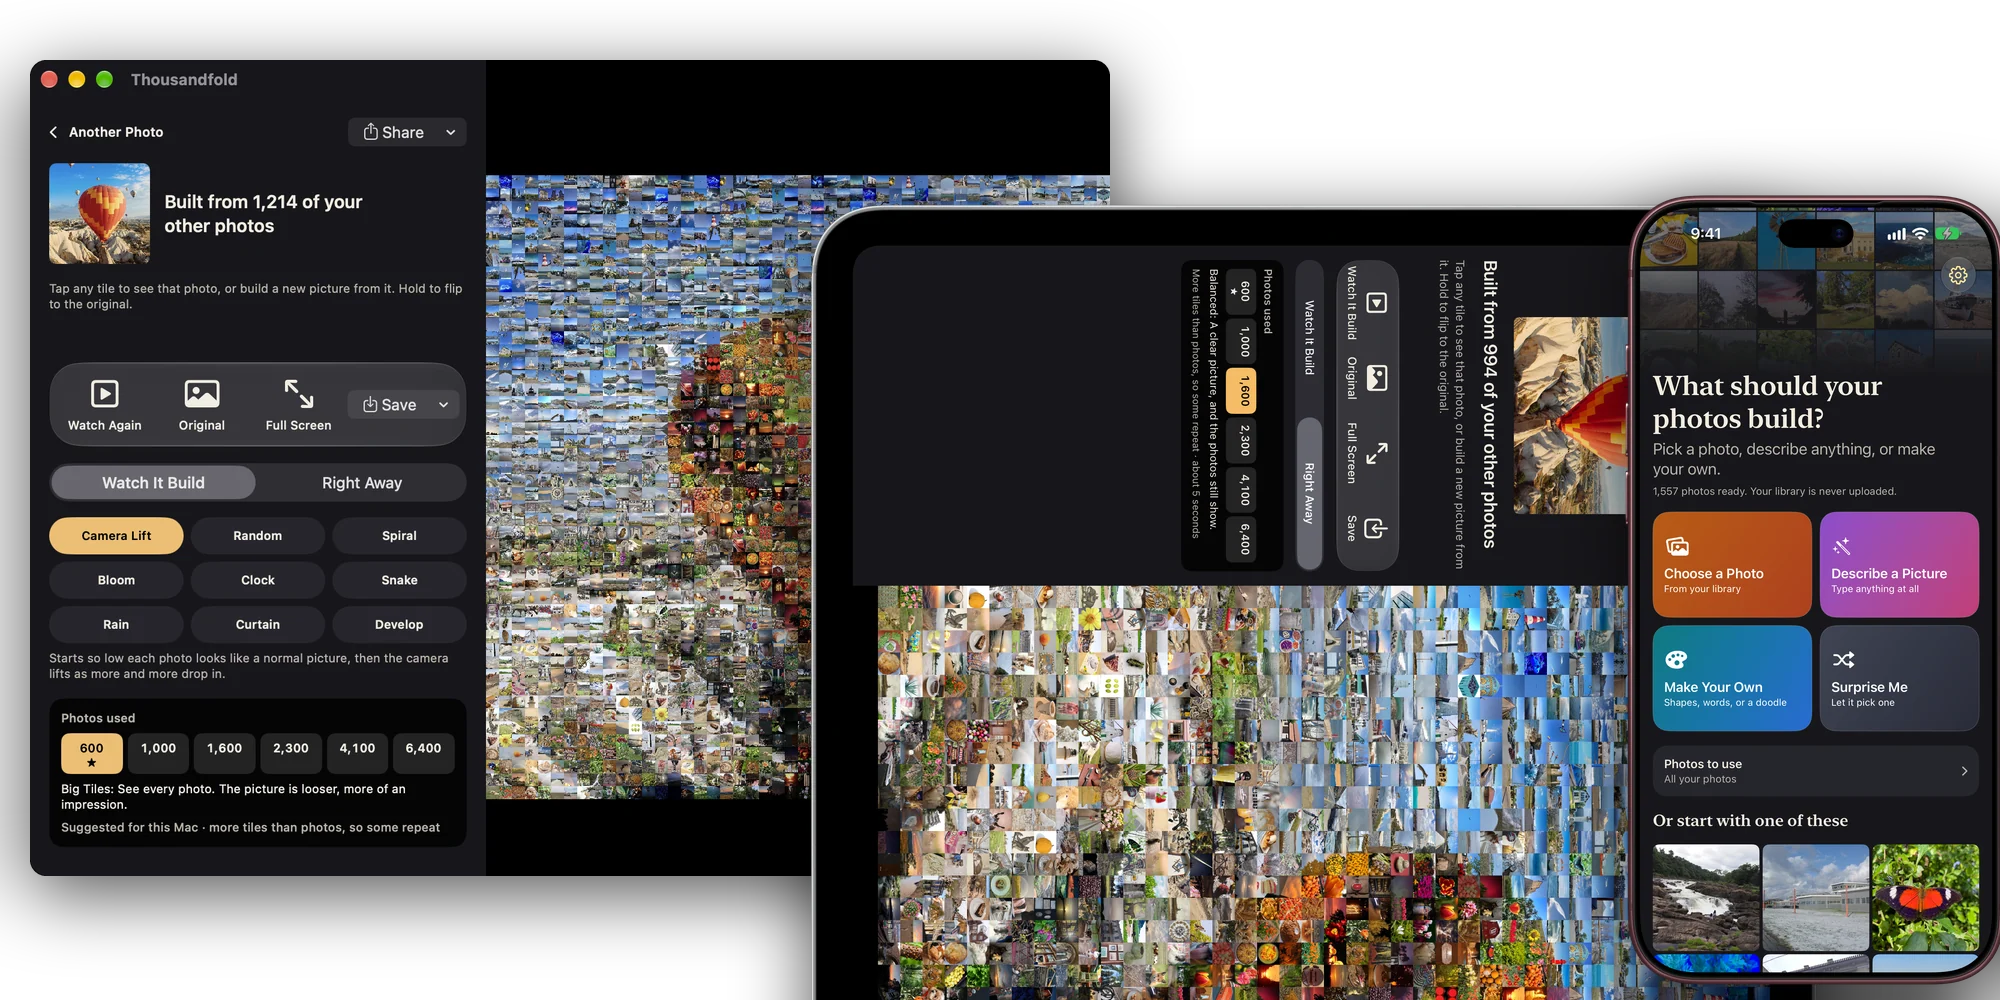
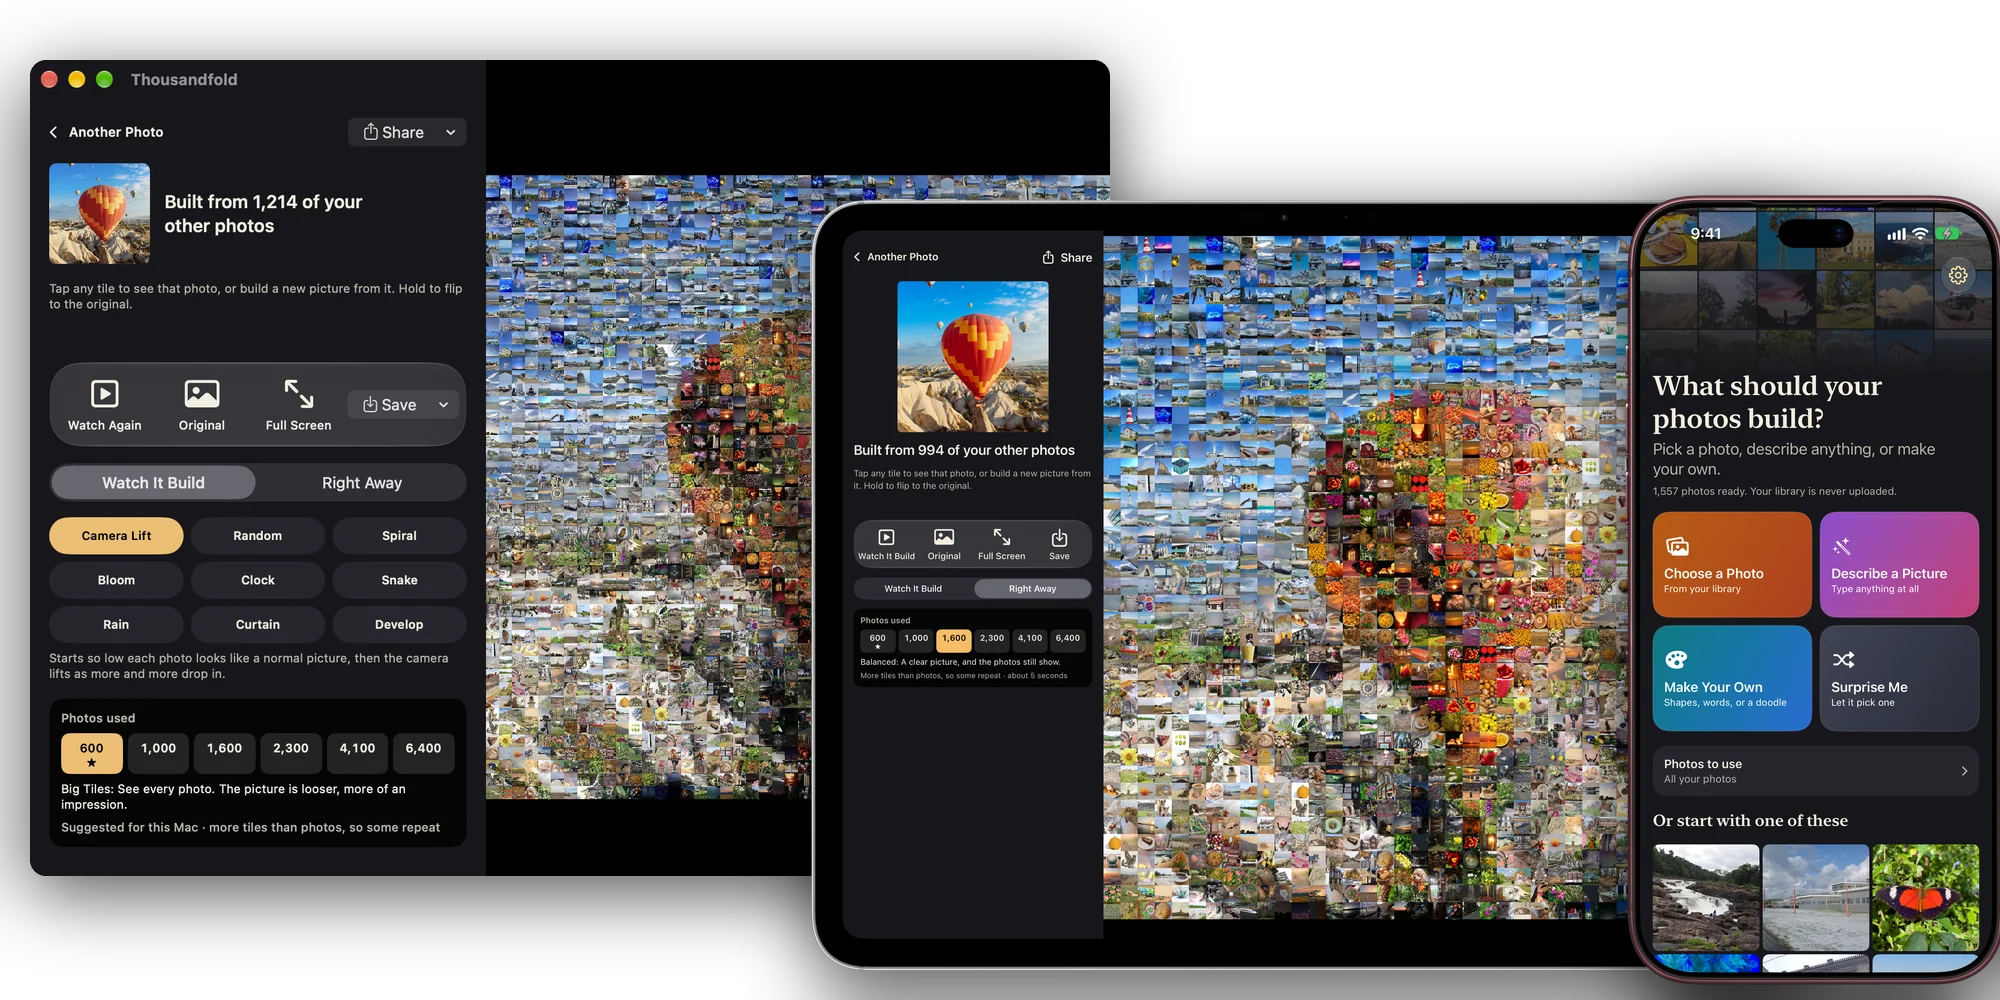
iPad right way up in the devices picture

Changed region(s): [[0.372, 0.186, 0.93, 1.0]]

diff --git a/index.html b/index.html
@@ -95,7 +95,7 @@
 <section id="devices"><div class="wrap center">
   <h2>On every screen you have.</h2>
   <p class="lead">iPhone, iPad and Mac. Pictures you keep follow you through your own iCloud.</p>
-  <div class="strip"><img src="img/devices.webp?v=2" alt="Thousandfold on Mac, iPad and iPhone" loading="lazy" width="1800" height="900"></div>
+  <div class="strip"><img src="img/devices.webp?v=3" alt="Thousandfold on Mac, iPad and iPhone" loading="lazy" width="1800" height="900"></div>
 </div></section>
 
 <section id="private"><div class="wrap">
